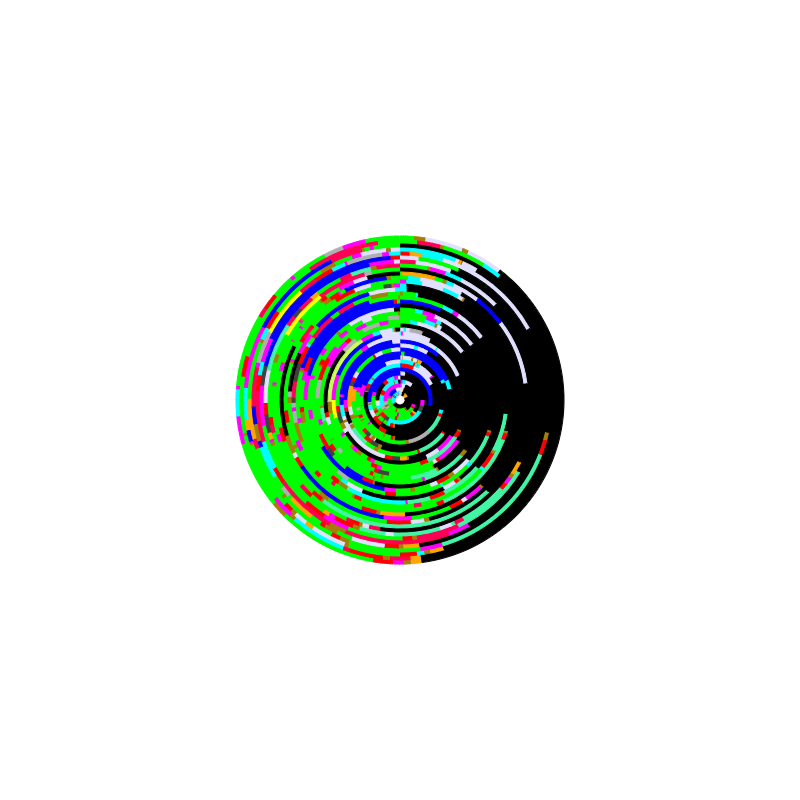
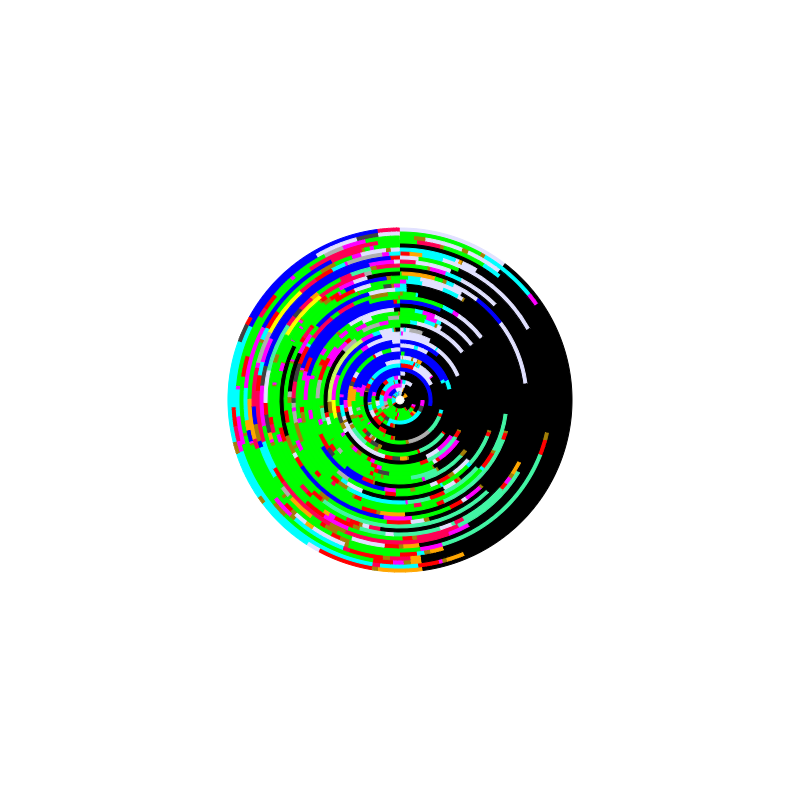
added 3/27 and 3/28

diff --git a/index.html b/index.html
@@ -15,13 +15,13 @@
 		</div>
 	-->
 		<div class="inputDiv">
-			<label for="cRad">Pie Radius</label><input name="cRad" id="cRad" type="number" min="0.1" max="50" step="1" value="168">
+			<label for="cRad">Pie Radius</label><input name="cRad" id="cRad" type="number" min="0.1" max="50" step="1" value="176">
 		</div>
 		<div class="inputDiv">
-			<label for="sRad">Spiral Start Radius</label><input name="sRad" id="sRad" type="number" min="0.1" max="50" step="1" value="246">
+			<label for="sRad">Spiral Start Radius</label><input name="sRad" id="sRad" type="number" min="0.1" max="50" step="1" value="258">
 		</div>
 		<div class="inputDiv">
-			<label for="eRad">Spiral End Radius</label><input name="eRad" id="eRad" type="number" min="0.1" max="50" step="1" value="252">
+			<label for="eRad">Spiral End Radius</label><input name="eRad" id="eRad" type="number" min="0.1" max="50" step="1" value="264">
 		</div>
 		<div id="buttonDiv">
 			<label>Open .png <input type="file" id="impBtn" name="impBtn" accept=".png" onchange="importCanvas();"></label>
@@ -58,16 +58,12 @@
 			var ctx2 = canvas2.getContext("2d");
 
 			var myDay = [
-			['01:56','main work'],
-			['02:02','bathroom'],
-			['03:23','side work'],
-			['03:40','chores'],
-			['10:30','sleep'],
-			['10:55','reading'],
-			['11:01','bathroom'],
-			['11:06','chores'],
-			['11:35','eating'],
-			['','side work'],
+			// ['00:15','social'],
+			// ['02:30','TV'],
+			// ['11:57','sleep'],
+			// ['12:27','TV'],
+			// ['12:50','eating'],
+			// ['13:12','side work'],
 			];
 
 			var categories = {
